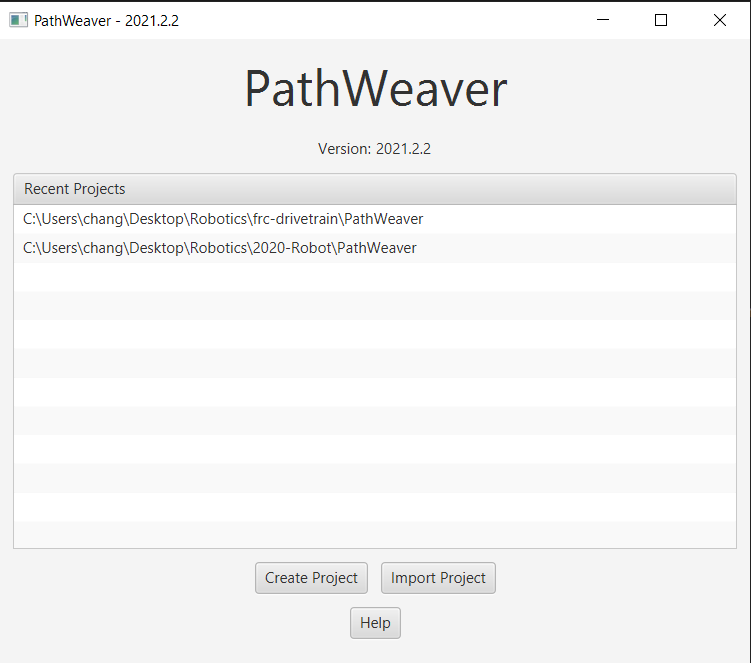
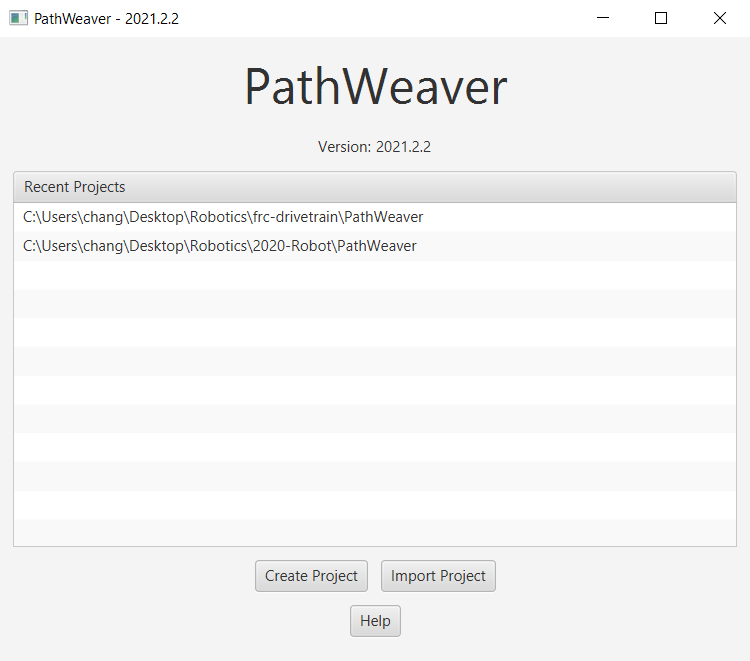
Fix Images

diff --git a/docs/frc/4-Autonomous/3a-Generating_Trajectories.md b/docs/frc/4-Autonomous/3a-Generating_Trajectories.md
@@ -8,7 +8,7 @@ To start PathWeaver, first open up the WPILib version of VSCode. Then, go to the
 
 When you open PathWeaver, you may be greeted by an interface that looks like this:
 
-![PathWeaver interface](./img/Pathweaver.png)
+![Pathweaver](img/Pathweaver.png ':size=500x')
 
 Press `Create Project` to get started or click on an existing project to open it. For the settings, do the following:
 
@@ -23,7 +23,7 @@ Press `Create Project` to get started or click on an existing project to open it
 
 After generating your project, you should be greeted with the following interface:
 
-![PathWeaver Editing Interface](./img/Pathweaver Interface.png)
+![PathWeaver Editing Interface](img/PathweaverInterface.png)
 
 First, we must talk about what exactly a `path` is in PathWeaver. A path is a single curved line that goes between two waypoints. Waypoints are just points on the field that also have a direction, or heading, associated with them. When you click on a waypoint in PathWeaver, you can use the text boxes on the bottom left to control exactly where the triangle is with the X and Y, and you can use the text boxes on the bottom right to control the tangent direction, which defines the direction the robot is facing. You can either type in exact values here or drag around the points with your mouse.
 
@@ -31,19 +31,19 @@ First, we must talk about what exactly a `path` is in PathWeaver. A path is a si
 > It is highly advised that you do not use the dragging around feature besides just to get an idea of what the path will look like.
 > For paths that will go on the robot, you should instead use field measurements to determine exactly where the positions we wish to go are as well as the tangents. On the below image, the red arrow marks where (0, 0) is.
 
-![PathWeaver Drawing Paths](./img/Pathweaver Paths.png)
+![PathWeaver Drawing Paths](./img/PathweaverPaths.png)
 
 The way we create paths in PathWeaver is by pressing the plus button in the bottom right. This will create a new path that you will see on the bottom right. You will also notice the path displayed in orange with the waypoints determining the path marked as orange triangles. The bright cyan lines determine the tangent vectors.
 
 When the orange path is filled in, this means that this is a forward trajectory, meaning that the robot will be driving forwards while following this. However, there are times when we want to actually drive our robot backwards. To do this, we can click the `Reverse Spline` checkbox in the bottom right. This will flip the headings so that the robot is actually driving backwards while following the path.
 
-![PathWeaver Drawing Reversed Paths](./img/Pathweaver Reverse.png)
+![PathWeaver Drawing Reversed Paths](./img/PathweaverReverse.png)
 
 ## Creating Path Groups
 
 If we wanted to make more complicated paths, we can actually create multiple paths and run them consecutively. To help visualize this easily, PathWeaver has something built in called Path Groups. Press the plus button in the top right to create a path group, and then drag the paths in the bottom panel into the group. When you click on the group, you should be able to see all of your paths at the same time, which is really convenient for visualizing how the entire path flows.
 
-![PathWeaver Path Groups](./img/Pathweaver Groups.png)
+![PathWeaver Path Groups](./img/PathweaverGroups.png)
 
 > [!WARNING]
 > The above image is NOT a good example of what a path group should look like since it just has two random paths in it that aren't linked at all. The purpose of path groups is for multiple paths that will be run consecutively.
